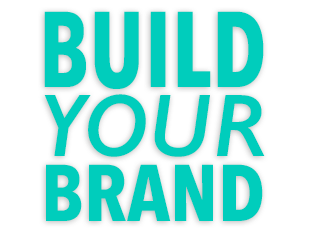
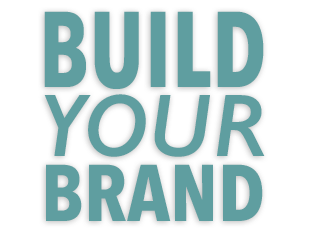
Added Brushstrokes

diff --git a/cffcHome.html b/cffcHome.html
@@ -25,7 +25,9 @@
     <!-- Begin Contact/Social Media Bar-->
     <div class="top-contact">
         <p class="top-contact-text">760.555.5555</p>
-        <p class="top-contact-text">info@tcffc.com</p>
+          <a class="header-links" href="http://www.google.com">
+            <p class="top-contact-text">info@tcffc.com</p>
+          </a>
         <p class="top-contact-text">FAQ</p>
         <a class="facebook"></a>
         <a class="pinterest"></a>
@@ -60,7 +62,7 @@
                     </li>
 
                     <li class="links"><a href="#">About</a></li>
-                    <li class="links"><a href="#">Contact</a></li>
+                    <li class="links"><a href="#">Contact Us</a></li>
                     <li class="links"><a href="#">Art</a></li>
                 </ul>
             </nav>
@@ -77,6 +79,7 @@
         </div>
 
         <div class="banner">
+          <h3>Sandal Collage Here</h3>
         </div>
 
     </div>
@@ -88,55 +91,44 @@
     <div>
         <div class="col-md-3">
             <div class="category-school"></div>
-            <div class="text-background">
-                <div class="category-title">Schools</div>
+            <div class="brushstroke-background-01">
+                <div class="category-title-01">Schools</div>
             </div>
         </div>
 
         <div class="col-md-3">
             <div class="category-school"></div>
-            <div class="text-background">
-                <div class="category-title">Resorts</div>
+            <div class="brushstroke-background-02">
+                <div class="category-title-02">Resorts</div>
             </div>
         </div>
 
         <div class="col-md-3">
             <div class="category-school"></div>
-            <div class="text-background">
-                <div class="category-title">Corporate</div>
+            <div class="brushstroke-background-01">
+                <div class="category-title-01">Corporate</div>
             </div>
         </div>
 
         <div class="col-md-3">
             <div class="category-school"></div>
-            <div class="text-background">
-                <div class="category-title">Weddings</div>
+            <div class="brushstroke-background-02">
+                <div class="category-title-02">Weddings</div>
             </div>
         </div>
     </div>
     <!--END, 4 Sandal Categories -->
 
-    <div class="col-md-12">
-        <div class="twitter">
-            <p class="twitter-title">Twitter Feed</p>
-        </div>
-    </div>
-
-    <!--3 Info Sections -->
+    <!--3 Info Sections/Add a light silver bg -->
     <div>
         <div class="col-md-6">
-            <div class="info-section">
+            <div class="info-paragraph">
                 <div class="info-title">About The Company</div>
                 <p class="paragraph-text">
                     The Custom Flip Flop Company is dedicated to providing high quality custom logo flip flops and sandals for almost any project, large or small.
-
                     Our skilled craftsmen carefully create each customized pair by hand, ensuring your complete satisfaction and comfort.
-
                     With over 20 years experience in the footwear market, we know you will be very happy with your own customized design.
-
                     Depending on your specific requirements, we will produce  your order in our facility in California, or at our partner factories in China and Mexico, on time and just the way you want (and we'll help you with the design, too!). Let us know if you have questions.  We'll make it easy for you to understand all the details and how best to proceed. Thanks for checking out our website.
-
-
                 </p>
             </div>
         </div>
@@ -178,6 +170,12 @@
 
     </div>
     <!--END, 3 Info Sections -->
+
+    <div class="col-md-12">
+        <div class="twitter">
+            <p class="twitter-title">Twitter Feed</p>
+        </div>
+    </div>
 
 </body>
 </html>

diff --git a/style.css b/style.css
@@ -100,6 +100,9 @@ h2{
   vertical-align:25px;
   margin-right:15px;
 }
+.top-contact-text:hover {
+  color:cadetBlue;
+}
 
 /* Logo */
 .header-section{
@@ -219,8 +222,15 @@ a:hover{
   background-size: contain;
   background-color:white;
 }
-
-.category-title {
+/* Backgrounds for 1 & 3 Boxes */
+.brushstroke-background-01 {
+  background-image: url(images/brushstroke01.jpg);
+  background-size:200px 50px;
+  width:100%;
+  background-repeat: no-repeat;
+  background-position: center;
+}
+.category-title-01{
   color:white;
   text-align:center;
   font-size:25px;
@@ -230,9 +240,13 @@ a:hover{
   letter-spacing:2px;
 }
 
-.category-title:hover{
-  color:midnightBlue;
-  }
+.category-title-01:hover{
+  background-image: url(images/brushstroke01a.jpg);
+  background-size:200px 50px;
+  width:100%;
+  background-repeat: no-repeat;
+  background-position: center;
+}
 
 /* Categorey background
 .text-background {
@@ -244,33 +258,39 @@ a:hover{
   border-bottom-left-radius:  6px;
 }*/
 
-.text-background {
-  background-image: url(images/brushstroke.jpg);
-  background-size:250px 45px;
+/* Backgrounds for 2 & 4 Boxes */
+.brushstroke-background-02 {
+  background-image: url(images/brushstroke02.jpg);
+  background-size:200px 50px;
   width:100%;
   background-repeat: no-repeat;
   background-position: center;
-
 }
-
-/* Twitter */
-
-.twitter {
-  margin-top:20px;
-  width:100%;
-  height:90px;
-  background-color:gainsboro;
-}
-
-.twitter-title{
-  color:black;
-  text-align:left;
+.category-title-02{
+  color:white;
+  text-align:center;
   font-size:25px;
   font-family: 'Open Sans', sans-serif;
-  padding: 10px 0 10px 10px;
+  padding: 5px 0;
+  text-transform:uppercase;
+  letter-spacing:2px;
+}
+
+.category-title-02:hover{
+  background-image: url(images/brushstroke02a.jpg);
+  background-size:200px 50px;
+  width:100%;
+  background-repeat: no-repeat;
+  background-position: center;
 }
 
 /* Company Info */
+
+.info-bg{
+  background-color:silver;
+  height:400px;
+  }
+
 .info-title {
   color:cadetblue;
   text-align:center;
@@ -278,11 +298,10 @@ a:hover{
   font-family: 'Open Sans', sans-serif;
   padding: 10px 0;
   font-weight:bolder;
-  border-bottom:2px solid cadetblue;
   margin-bottom:10px;
 }
 
-.info-section {
+.info-paragraph {
   height:300px;
   width:90%;
   display: block;
@@ -334,4 +353,21 @@ a:hover{
   font-size:16px;
   font-family: sans-serif;
   text-align:left;
+}
+
+/* Twitter */
+
+.twitter {
+  margin-top:20px;
+  width:100%;
+  height:90px;
+  background-color:gainsboro;
+}
+
+.twitter-title{
+  color:black;
+  text-align:left;
+  font-size:25px;
+  font-family: 'Open Sans', sans-serif;
+  padding: 10px 0 10px 10px;
 }
